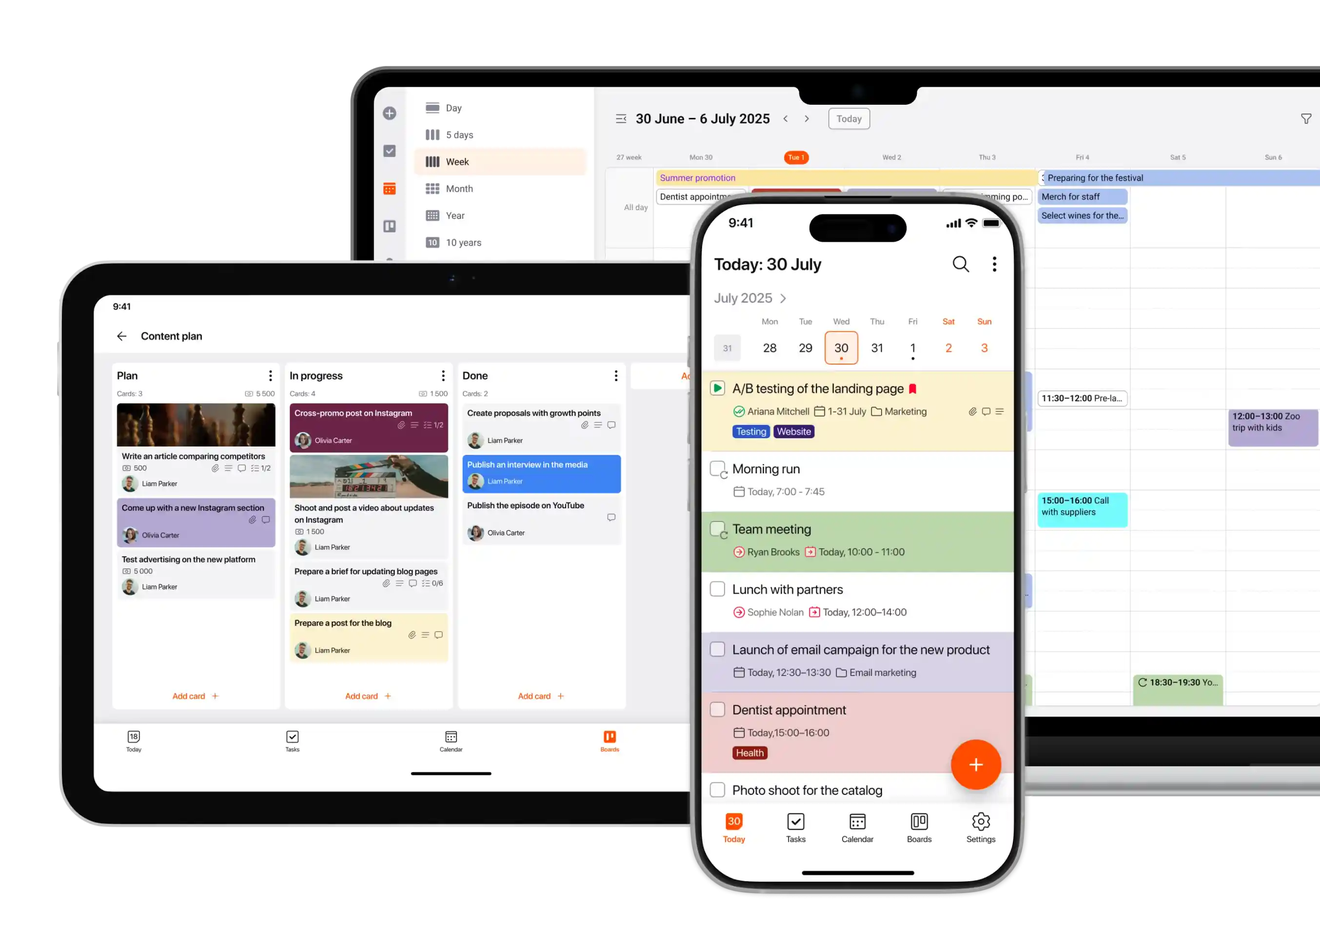
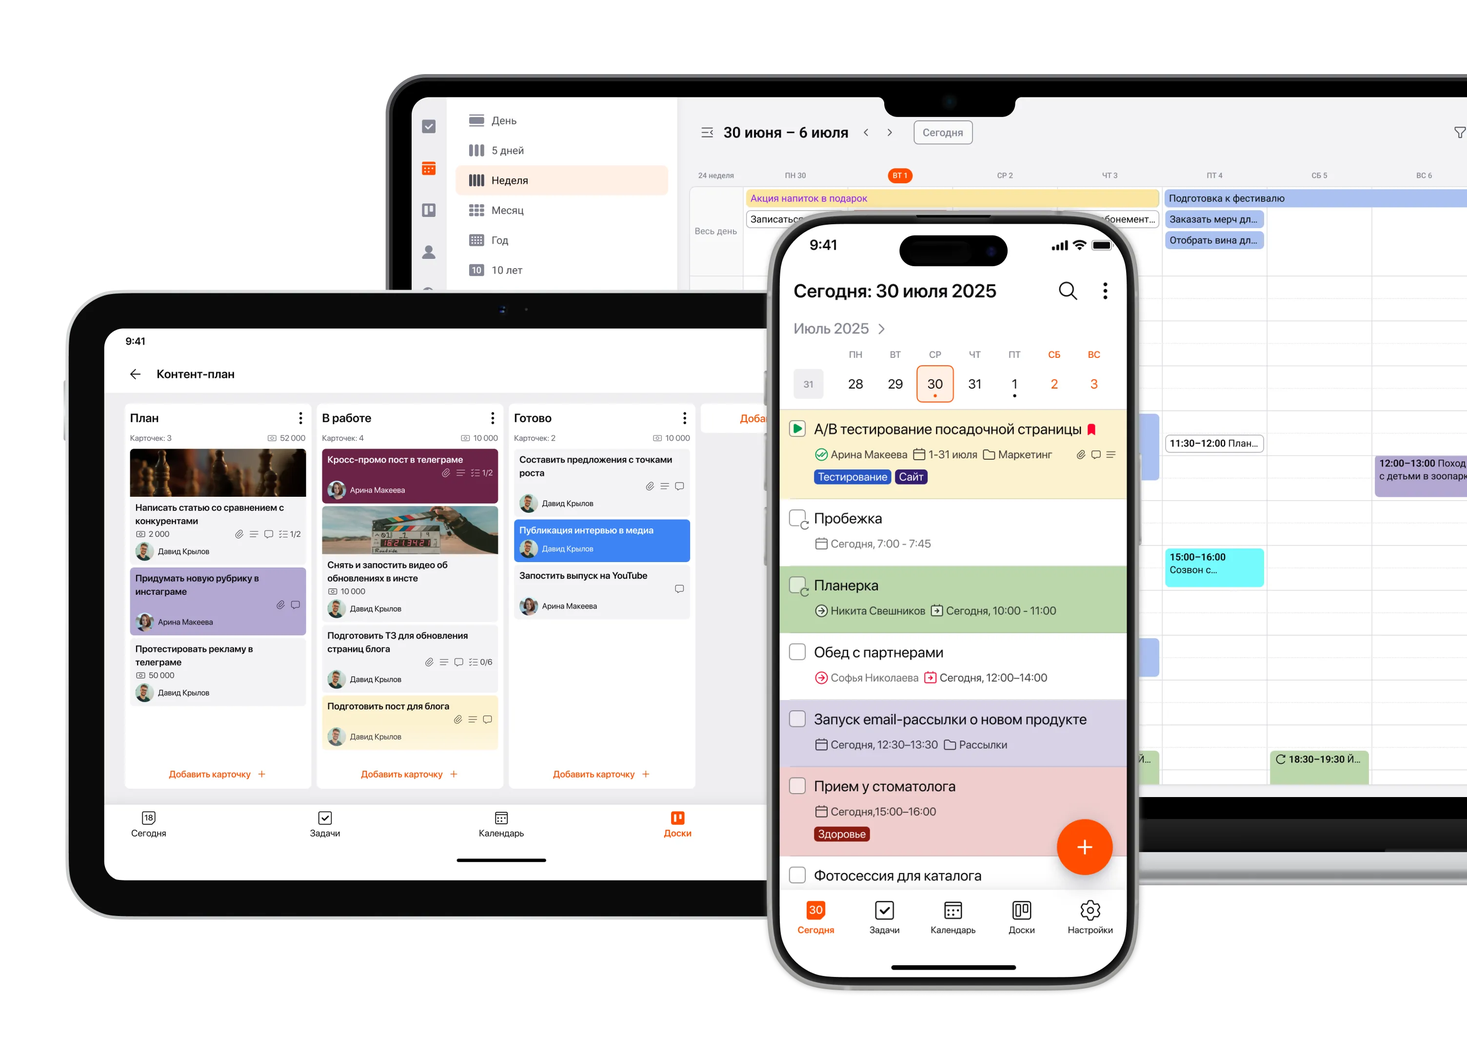
fix text in const data

diff --git a/src/shared/const/platform-pages.ts b/src/shared/const/platform-pages.ts
@@ -14,44 +14,44 @@ export const HERO_BLOCK: Record<
 > = {
 	webApp: {
 		platform: 'web',
-		gradientText: 'Work with LeaderTask',
-		title: 'in the web app',
-		description: 'Work online in LeaderTask and keep your projects on track.',
-		features: ['Simple and fully featured', 'No setup needed', 'Try it free'],
+		gradientText: 'Работайте с LeaderTask',
+		title: 'в веб-приложении',
+		description: 'Работайте онлайн в LeaderTask и держите проекты под контролем.',
+		features: ['Просто и полнофункционально', 'Не требует настройки', 'Попробуйте бесплатно'],
 		image: '/site-app.webp',
 		imageMobile: '/site-app-mobile.webp',
-		textButton: 'Get started for free',
+		textButton: 'Начать бесплатно',
 		linkButton: 'https://www.leadertask.com/web/login',
 	},
 	windows: {
 		platform: 'windows',
-		gradientText: 'Work with LeaderTask',
-		title: 'on Windows',
-		description: 'Get the app on your PC and manage tasks with your team.',
-		features: ['Simple and fully featured', 'No setup needed', 'Try it free'],
+		gradientText: 'Работайте с LeaderTask',
+		title: 'на Windows',
+		description: 'Скачайте приложение на ПК и управляйте задачами вместе с командой.',
+		features: ['Просто и полнофункционально', 'Не требует настройки', 'Попробуйте бесплатно'],
 		image: '/windows-app.webp',
 		imageMobile: '/windows-app-mobile.webp',
-		textButton: 'Download',
+		textButton: 'Скачать',
 		linkButton: '/leadertask.exe',
 	},
 	android: {
 		platform: 'android',
-		gradientText: 'The best task planner',
-		title: 'for Android',
-		description: 'Your all-in-one to-do app and daily organizer',
-		features: ['Simple and fully featured', 'No setup needed', 'Try it free'],
+		gradientText: 'Лучший планировщик задач',
+		title: 'для Android',
+		description: 'Ваш универсальный список дел и ежедневник',
+		features: ['Просто и полнофункционально', 'Не требует настройки', 'Попробуйте бесплатно'],
 		image: '/android-app.webp',
-		textButton: 'Download',
+		textButton: 'Скачать',
 		linkButton: 'https://play.google.com/store/apps/details?id=com.leadertask.app&pli=1',
 	},
 	ios: {
 		platform: 'ios',
-		gradientText: 'The best task planner',
-		title: 'for iPhone',
-		description: 'Your all-in-one to-do app and daily organizer',
-		features: ['Simple and fully featured', 'No setup needed', 'Try it free'],
+		gradientText: 'Лучший планировщик задач',
+		title: 'для iPhone',
+		description: 'Ваш универсальный список дел и ежедневник',
+		features: ['Просто и полнофункционально', 'Не требует настройки', 'Попробуйте бесплатно'],
 		image: '/ios-app.webp',
-		textButton: 'Download',
+		textButton: 'Скачать',
 		linkButton:
 			'https://apps.apple.com/ru/app/%D0%BB%D0%B8%D0%B4%D0%B5%D1%80%D1%82%D0%B0%D1%81%D0%BA-%D0%BF%D0%BB%D0%B0%D0%BD%D0%B8%D1%80%D0%BE%D0%B2%D1%89%D0%B8%D0%BA-%D0%B7%D0%B0%D0%B4%D0%B0%D1%87/id6504613667',
 	},
@@ -61,141 +61,145 @@ export const FEATURES_BLOCK: Record<string, { icon: string; title: string; descr
 	webApp: [
 		{
 			icon: 'icon-internet',
-			title: 'Access from anywhere',
+			title: 'Доступ отовсюду',
 			description:
-				'Open LeaderTask on any device or browser and keep your workspace just one click away,<br />wherever you are.',
+				'Открывайте LeaderTask на любом устройстве или в браузере и держите рабочее пространство в одном клике,<br />где бы вы ни были.',
 		},
 		{
 			icon: 'icon-calendar-features',
-			title: 'Flexible calendar views',
+			title: 'Гибкие виды календаря',
 			description:
-				'View your schedule by day, week, month, year, or even multiple years. Organize daily tasks or plan long-term goals all in one calendar.',
+				'Смотрите расписание по дням, неделям, месяцам, году или на несколько лет. Организуйте задачи на день и планируйте долгосрочные цели в одном календаре.',
 		},
 		{
 			icon: 'icon-board',
-			title: 'Boards',
+			title: 'Доски',
 			description:
-				'See your workflow at a glance with Kanban-style boards. Move tasks between stages and track progress effortlessly.',
+				'Видьте процесс целиком на досках в стиле Канбан. Перемещайте задачи между этапами и легко отслеживайте прогресс.',
 		},
 		{
 			icon: 'icon-reminder',
-			title: 'Notifications & reminders',
-			description: 'Stay on top of deadlines and events with reminders right in your browser or by email.',
+			title: 'Уведомления и напоминания',
+			description: 'Держите сроки и события под контролем с напоминаниями в браузере или на почту.',
 		},
 		{
 			icon: 'icon-archive',
-			title: 'Everything in one place',
-			description: 'Keep notes, files, and tasks together in a single app. Stay organized no matter where you are.',
+			title: 'Всё в одном месте',
+			description: 'Храните заметки, файлы и задачи вместе в одном приложении. Порядок сохраняется, где бы вы ни были.',
 		},
 		{
 			icon: 'icon-team-collaboration',
-			title: 'Team collaboration',
-			description: 'Share projects, assign tasks, and track progress in real time. Seamless collaboration from anywhere.',
+			title: 'Совместная работа команды',
+			description:
+				'Делитесь проектами, назначайте задачи и отслеживайте прогресс в реальном времени. Без швов — из любой точки.',
 		},
 	],
 	windows: [
 		{
 			icon: 'icon-offline-access',
-			title: 'Offline access',
+			title: 'Оффлайн-доступ',
 			description:
-				'Plan and manage your tasks anytime, even without internet. Everything updates automatically once you’re back online.',
+				'Планируйте и управляйте задачами в любое время, даже без интернета. Всё синхронизируется автоматически, как только вы вернётесь онлайн.',
 		},
 		{
 			icon: 'icon-calendar-features',
-			title: 'Flexible calendar views',
+			title: 'Гибкие виды календаря',
 			description:
-				'View your schedule by day, week, month, year, or even multiple years. Organize daily tasks or plan long-term goals all in one calendar.',
+				'Смотрите расписание по дням, неделям, месяцам, году или на несколько лет. Организуйте задачи на день и планируйте долгосрочные цели в одном календаре.',
 		},
 		{
 			icon: 'icon-board',
-			title: 'Boards',
+			title: 'Доски',
 			description:
-				'See your workflow at a glance with Kanban-style boards. Move tasks between stages and track progress effortlessly.',
+				'Видьте процесс целиком на досках в стиле Канбан. Перемещайте задачи между этапами и легко отслеживайте прогресс.',
 		},
 		{
 			icon: 'icon-reminder',
-			title: 'Notifications & reminders',
-			description: 'Stay on top of deadlines and events with reminders right in your browser or by email.',
+			title: 'Уведомления и напоминания',
+			description: 'Держите сроки и события под контролем с напоминаниями в браузере или на почту.',
 		},
 		{
 			icon: 'icon-archive',
-			title: 'Everything in one place',
-			description: 'Keep notes, files, and tasks together in a single app. Stay organized no matter where you are.',
+			title: 'Всё в одном месте',
+			description: 'Храните заметки, файлы и задачи вместе в одном приложении. Порядок сохраняется, где бы вы ни были.',
 		},
 		{
 			icon: 'icon-team-collaboration',
-			title: 'Team collaboration',
-			description: 'Share projects, assign tasks, and track progress in real time. Perfect for smooth teamwork on the go.',
+			title: 'Совместная работа команды',
+			description:
+				'Делитесь проектами, назначайте задачи и отслеживайте прогресс в реальном времени. Отлично подходит для слаженной работы в пути.',
 		},
 	],
 	android: [
 		{
 			icon: 'icon-offline-access',
-			title: 'Offline access',
+			title: 'Оффлайн-доступ',
 			description:
-				'Plan and manage your tasks anytime, even without internet. Everything updates automatically once you’re back online.',
+				'Планируйте и управляйте задачами в любое время, даже без интернета. Всё синхронизируется автоматически, как только вы вернётесь онлайн.',
 		},
 		{
 			icon: 'icon-calendar-features',
-			title: 'Flexible calendar views',
+			title: 'Гибкие виды календаря',
 			description:
-				'View your schedule by day, week, month, year, or even multiple years. Organize daily tasks or plan long-term goals all in one calendar.',
+				'Смотрите расписание по дням, неделям, месяцам, году или на несколько лет. Организуйте задачи на день и планируйте долгосрочные цели в одном календаре.',
 		},
 		{
 			icon: 'icon-board',
-			title: 'Boards',
+			title: 'Доски',
 			description:
-				'See your workflow at a glance with Kanban-style boards. Move tasks between stages and track progress effortlessly.',
+				'Видьте процесс целиком на досках в стиле Канбан. Перемещайте задачи между этапами и легко отслеживайте прогресс.',
 		},
 		{
 			icon: 'icon-reminder',
-			title: 'Notifications & reminders',
-			description: 'Stay on top of everything with instant notifications and timely reminders on your phone.',
+			title: 'Уведомления и напоминания',
+			description: 'Держите всё под контролем с мгновенными уведомлениями и своевременными напоминаниями на телефоне.',
 		},
 		{
 			icon: 'icon-archive',
-			title: 'Everything in one place',
-			description: 'Keep notes, files, and tasks together in a single app. Stay organized no matter where you are.',
+			title: 'Всё в одном месте',
+			description: 'Храните заметки, файлы и задачи вместе в одном приложении. Порядок сохраняется, где бы вы ни были.',
 		},
 		{
 			icon: 'icon-team-collaboration',
-			title: 'Team collaboration',
-			description: 'Share projects, assign tasks, and track progress in real time. Perfect for smooth teamwork on the go.',
+			title: 'Совместная работа команды',
+			description:
+				'Делитесь проектами, назначайте задачи и отслеживайте прогресс в реальном времени. Отлично подходит для слаженной работы в пути.',
 		},
 	],
 	ios: [
 		{
 			icon: 'icon-offline-access',
-			title: 'Offline access',
+			title: 'Оффлайн-доступ',
 			description:
-				'Plan and manage your tasks anytime, even without internet. Everything updates automatically once you’re back online.',
+				'Планируйте и управляйте задачами в любое время, даже без интернета. Всё синхронизируется автоматически, как только вы вернётесь онлайн.',
 		},
 		{
 			icon: 'icon-calendar-features',
-			title: 'Flexible calendar views',
+			title: 'Гибкие виды календаря',
 			description:
-				'View your schedule by day, week, month, year, or even multiple years. Organize daily tasks or plan long-term goals all in one calendar.',
+				'Смотрите расписание по дням, неделям, месяцам, году или на несколько лет. Организуйте задачи на день и планируйте долгосрочные цели в одном календаре.',
 		},
 		{
 			icon: 'icon-board',
-			title: 'Boards',
+			title: 'Доски',
 			description:
-				'See your workflow at a glance with Kanban-style boards. Move tasks between stages and track progress effortlessly.',
+				'Видьте процесс целиком на досках в стиле Канбан. Перемещайте задачи между этапами и легко отслеживайте прогресс.',
 		},
 		{
 			icon: 'icon-reminder',
-			title: 'Notifications & reminders',
-			description: 'Stay on top of everything with instant notifications and timely reminders on your phone.',
+			title: 'Уведомления и напоминания',
+			description: 'Держите всё под контролем с мгновенными уведомлениями и своевременными напоминаниями на телефоне.',
 		},
 		{
 			icon: 'icon-archive',
-			title: 'Everything in one place',
-			description: 'Keep notes, files, and tasks together in a single app. Stay organized no matter where you are.',
+			title: 'Всё в одном месте',
+			description: 'Храните заметки, файлы и задачи вместе в одном приложении. Порядок сохраняется, где бы вы ни были.',
 		},
 		{
 			icon: 'icon-team-collaboration',
-			title: 'Team collaboration',
-			description: 'Share projects, assign tasks, and track progress in real time. Perfect for smooth teamwork on the go.',
+			title: 'Совместная работа команды',
+			description:
+				'Делитесь проектами, назначайте задачи и отслеживайте прогресс в реальном времени. Отлично подходит для слаженной работы в пути.',
 		},
 	],
 };

diff --git a/src/shared/const/index.ts b/src/shared/const/index.ts
@@ -7,24 +7,24 @@ export const LINKS: { title: string; links: Link[] }[] = [
 		links: [
 			{
 				href: '/pricing',
-				label: 'Pricing',
+				label: 'Цены',
 			},
 			{
 				href: '/features',
-				label: 'Features',
+				label: 'Возможности',
 			},
 			{
 				href: '/articles/page/1',
-				label: 'Blog',
+				label: 'Блог',
 			},
 		],
 	},
 	{
-		title: 'Platforms',
+		title: 'Платформы',
 		links: [
 			{
 				href: '/platforms/web',
-				label: 'Web',
+				label: 'Веб',
 			},
 			{
 				href: '/platforms/windows',
@@ -41,23 +41,23 @@ export const LINKS: { title: string; links: Link[] }[] = [
 		],
 	},
 	{
-		title: 'About',
+		title: 'О компании',
 		links: [
 			{
 				href: '/about',
-				label: 'About us',
+				label: 'О нас',
 			},
 			{
 				href: '/contacts',
-				label: 'Contact',
+				label: 'Контакты',
 			},
 			{
 				href: '/versions',
-				label: 'Updates',
+				label: 'Обновления',
 			},
 			{
 				href: '/security',
-				label: 'Security',
+				label: 'Безопасность',
 			},
 		],
 	},
@@ -66,26 +66,26 @@ export const LINKS: { title: string; links: Link[] }[] = [
 export const FEATURES_SLIDER_1_ITEMS = [
 	{
 		icon: 'icon-reminder',
-		title: 'Reminders and recurrence',
-		description: 'Set reminders and recurring tasks with flexible schedules – never miss a deadline.',
+		title: 'Напоминания и повторения',
+		description: 'Ставьте напоминания и повторяющиеся задачи с гибкими графиками — больше никаких пропущенных дедлайнов.',
 		image: '/reminders-and-recurrence.webp',
 	},
 	{
 		icon: 'icon-checklist-feature',
-		title: 'Checklists and task descriptions',
-		description: 'Add detailed descriptions and checklists to visualize every step of your workflow.',
+		title: 'Чек-листы и описания задач',
+		description: 'Добавляйте подробные описания и чек-листы, чтобы видеть каждый шаг процесса.',
 		image: '/checklists-and-task-descriptions.webp',
 	},
 	{
 		icon: 'icon-chat',
-		title: 'Chats and attachments',
-		description: 'Discuss tasks in built-in chats and attach files right to the task card – everything you need in one place.',
+		title: 'Чаты и вложения',
+		description: 'Обсуждайте задачи во встроенных чатах и прикрепляйте файлы прямо в карточку — всё нужное в одном месте.',
 		image: '/chats-and-attachments.webp',
 	},
 	{
 		icon: 'icon-tag',
-		title: 'Tags, colors, and focus',
-		description: 'Organize tasks by tags and colors. Highlight what matters most in the “Focus” list to boost concentration.',
+		title: 'Теги, цвета и фокус',
+		description: 'Организуйте задачи по тегам и цветам. Отмечайте главное в списке «Фокус», чтобы работать сосредоточенно.',
 		image: '/tags-colors-and-focus.webp',
 	},
 ];
@@ -93,28 +93,28 @@ export const FEATURES_SLIDER_1_ITEMS = [
 export const FEATURES_SLIDER_2_ITEMS = [
 	{
 		icon: 'icon-filter',
-		title: 'Filters',
-		description: 'Filter by date, status, assignee, project, and more to locate exactly what you need.',
+		title: 'Фильтры',
+		description: 'Фильтруйте по дате, статусу, исполнителю, проекту и другим параметрам, чтобы быстро находить нужное.',
 		image: '/filters.webp',
 	},
 	{
 		icon: 'icon-sorting',
-		title: 'Sorting',
-		description: 'Sort tasks by priority, due dates, or custom criteria with just a few clicks.',
+		title: 'Сортировка',
+		description: 'Сортируйте задачи по приоритету, срокам или своим критериям в пару кликов.',
 		image: '/sorting.webp',
 		customClass: '!max-w-44.5 !max-h-61.25 md:!max-h-109 md:!max-w-85 ',
 		justifyClass: '!justify-center',
 	},
 	{
 		icon: 'icon-hightlights',
-		title: 'Current highlights',
-		description: 'Stay on top of unread items, overdue tasks, and notifications in dedicated views.',
+		title: 'Актуальные выделения',
+		description: 'Держите под контролем непрочитанное, просрочки и уведомления в отдельных представлениях.',
 		image: '/current-highlights.webp',
 	},
 	{
 		icon: 'icon-recycle',
-		title: 'Recycle bin and archive',
-		description: 'Deleted tasks can be restored – your data is always under control.',
+		title: 'Корзина и архив',
+		description: 'Удалённые задачи можно восстановить — данные всегда под контролем.',
 		image: '/recycle-bin-and-archive.webp',
 	},
 ];
